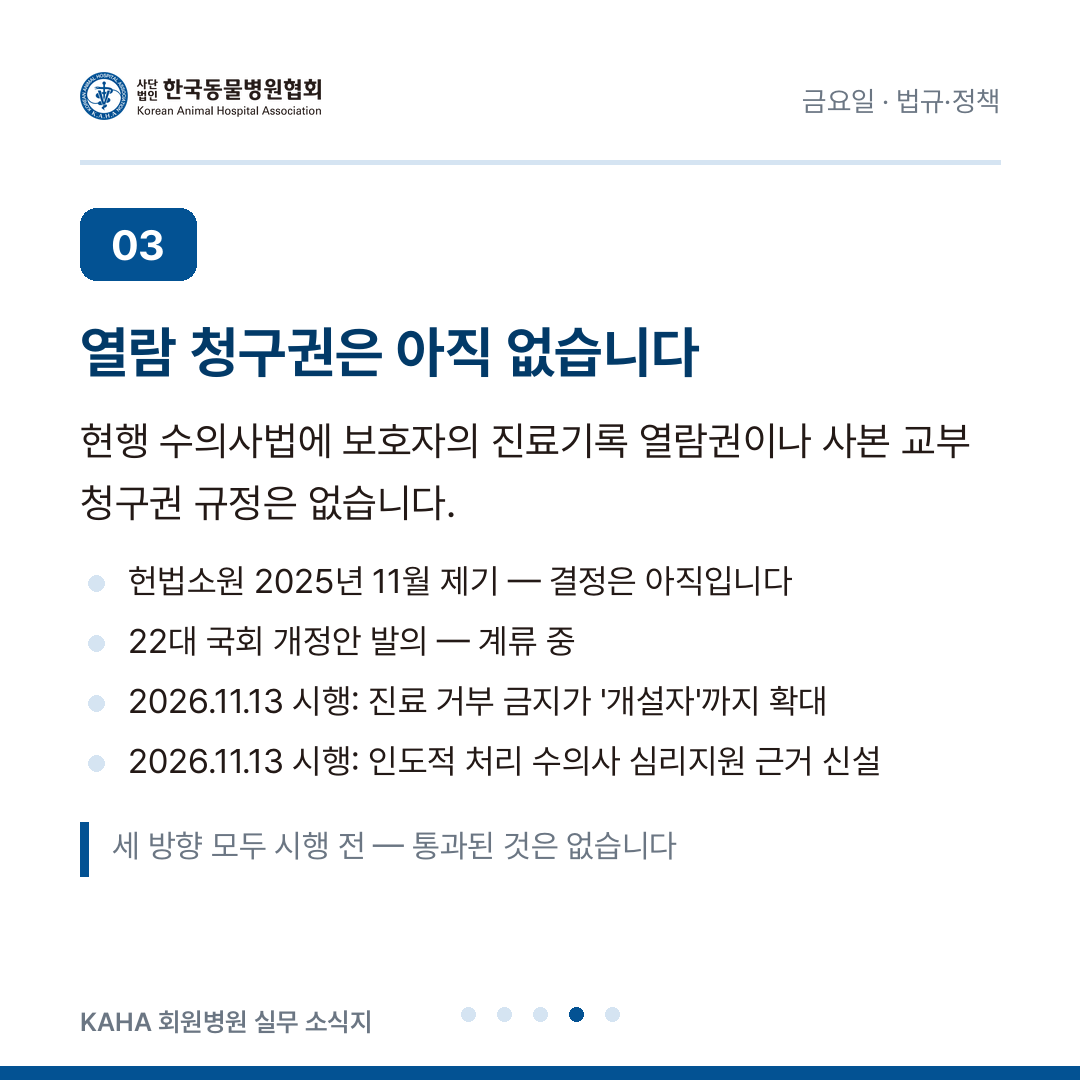
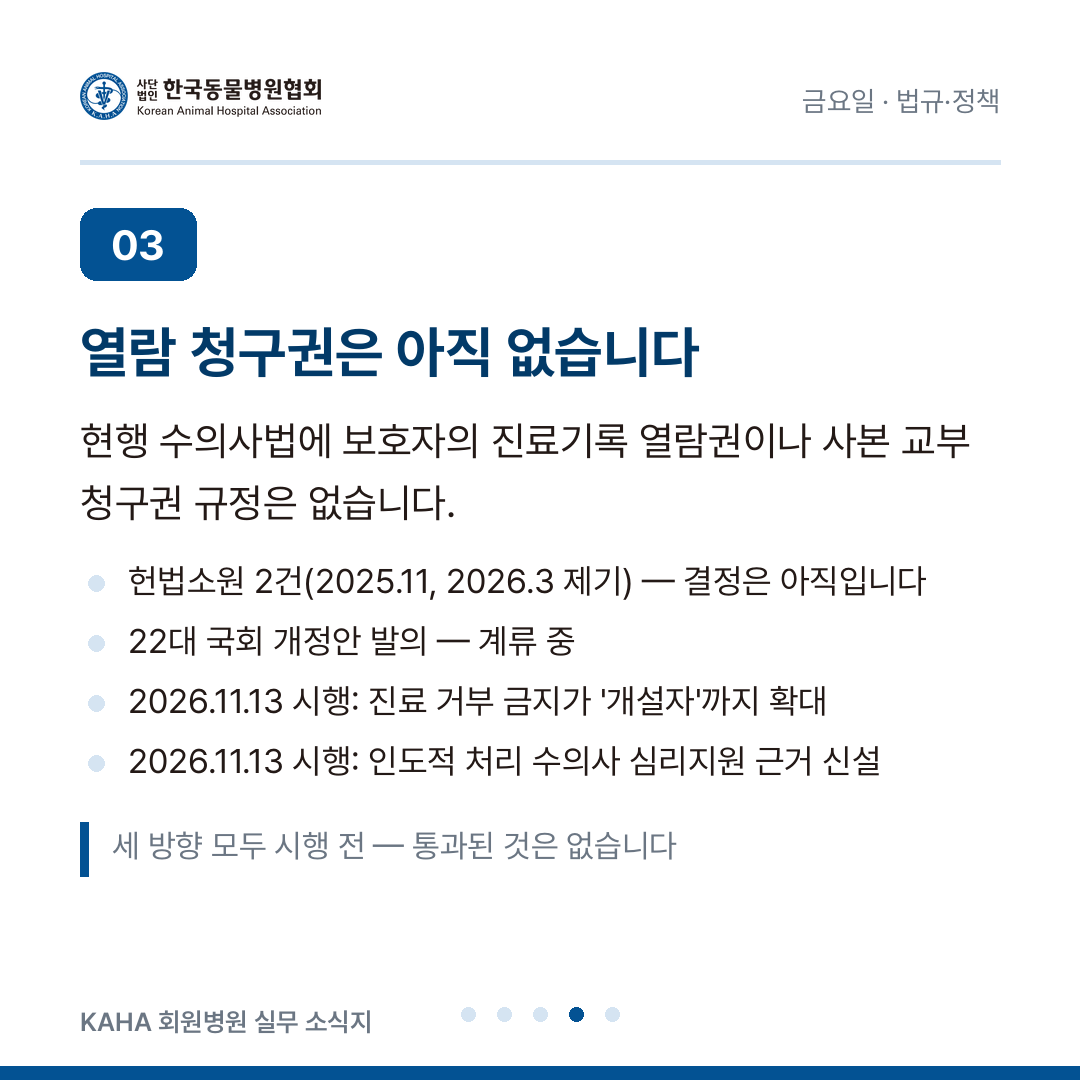
KAHA 소식지 2026-08-21 (금요일 법규·정책)
발행 전 재검증: 진료기록 열람 논의 관련 헌법소원이 실제로는
2025년 11월(개인, 전원재판부 심리 중)과 2026년 3월(변호사단체
'영원', 100명) 별개의 2건임을 확인해 본문·카드뉴스를 정정하고,
대한수의사회-법무법인 태평양 업무협약(8/3)을 반영했다.

Changed region(s): [[0.2444, 0.5194, 0.8556, 0.55]]

diff --git a/factcheck/2026-08-21.md b/factcheck/2026-08-21.md
@@ -48,3 +48,23 @@
 ## 발행 전 정정 사항 (3차)
 
 - **면허효력 정지 사유 추가**: 진료부 위반이 과태료에 그치지 않는다는 점을 시행령 원문으로 확인해 본문에 추가했습니다. 실무상 경각심이 크게 다른 정보입니다.
+
+## 발행일 재검증 (2026-08-21, 4차 — 실제 발행 전)
+
+검증일: 2026-08-21 · 검증 방법: 웹 검색 재검증 (WebFetch는 이 작업 환경에서 law.go.kr·mafra.go.kr뿐 아니라 dailyvet.co.kr·mt.co.kr·yahopet.co.kr 등도 차단되어 원문 열람 불가 — WebSearch 결과 요약에만 의존)
+
+이 호는 발행 전 검증일(2026-08-14)로부터 7일이 지나 실제 발행되므로, 빠르게 움직이는 입법·소송 동향 항목을 다시 확인했습니다. 법령 원문 대조가 끝난 항목(진료부 보존기간·과태료·기재사항 등)은 재검증하지 않았습니다.
+
+| # | 재검증 대상 | 판정 | 근거 |
+|---|---|---|---|
+| 17 | **헌법소원이 실제로는 2건**임을 확인 — ①개인 청구인(2025.11, 보도 2025.11.25)이 낸 권리구제형 헌법소원이 2025.12.17 지정재판부에서 전원재판부로 회부되어 정식 심리 중, ②동물권 변호사단체 '영원'(변호사 약 100명)이 2026.3.5 별도로 수의사법 제13조 제1항·제41조 제2항 제2호에 대해 헌법소원심판 청구. 본문의 "2025년 11월, 변호사단체와 보호자 개인이 함께 제기"는 시점을 하나로 합친 오류였음 → **본문 수정 (2건으로 분리, 각 날짜·진행 단계 명시)** | ⚠ 정정 | [머니투데이](https://www.mt.co.kr/society/2025/12/17/2025121709234370918), [한국경제](https://www.hankyung.com/article/202603050912i), [다음뉴스 2026.3.5](https://v.daum.net/v/20260305131653930), [법률신문](https://www.lawtimes.co.kr/news/articleView.html?idxno=217224), [다음뉴스 2025.11.25](https://v.daum.net/v/20251125172349870) |
+| 18 | 헌법재판소의 위헌 여부 **결정(선고) 미발표** — 두 사건 모두 아직 결정 없음 | ✅ 확인 (검색 결과에 선고 보도 없음) | 위 동일 |
+| 19 | **대한수의사회 - 법무법인(유한) 태평양 업무협약(2026.8.3, 경기 성남 수의과학회관)** — 진료부 공개 헌법소원 대응 포함 법률·정책 대응 체계 구축 → **본문에 신규 반영** | ✅ 확인 (2개 독립 매체 일치) | [야호펫](https://www.yahopet.co.kr/2026/08/kvma-bkl-legal-policy-mou.html), [라이브뉴스](https://www.livesnews.com/news/article.html?no=63209) |
+| 20 | 22대 국회 계류 개정안 — 정청래 의원 대표발의(원 발의일 2024.7.16, 22대 국회 재발의 확인) 등, 여전히 **계류 중** — 통과·시행 보도 없음 | ✅ 확인 (기존 판정 유지) | [데일리벳](https://www.dailyvet.co.kr/news/policy/218092) |
+| 21 | 정부 규제혁신 과제(2024.10.14) 이후 **법 개정 완료 보도 없음** — 여전히 "과제 확정" 단계 | ✅ 확인 (기존 판정 유지) | 검색 결과에 개정 완료 보도 없음 |
+
+### 발행 전 정정 사항 (4차)
+
+- **헌법소원 서술을 2건으로 분리**: 개인 청구(2025.11) → 전원재판부 회부(2025.12.17)와, 변호사단체 영원의 별도 청구(2026.3.5)를 하나의 사건처럼 서술했던 것을 정정했습니다. 두 사건의 날짜·주체·진행 단계를 각각 명시했습니다.
+- **KVMA-태평양 업무협약(2026.8.3) 신규 반영**: 발행 시점 기준 최근 동향이므로 "대한수의사회는 반대 입장을 유지" 문단 뒤에 추가했습니다.
+- 나머지 항목(법령 원문 대조 완료분)은 변동 사항 없어 본문을 유지했습니다.

diff --git a/issues/2026-08-21.md b/issues/2026-08-21.md
@@ -68,11 +68,11 @@
 
 | 경로 | 현재 상태 |
 |---|---|
-| **헌법소원** | 2025년 11월, 동물권 변호사단체와 보호자 개인이 수의사법 제13조 제1항의 입법부작위를 다투는 헌법소원을 제기했습니다. **아직 결정은 나오지 않았습니다.** |
+| **헌법소원 (2건)** | **2025년 11월**, 진료기록 교부를 거부당한 보호자 개인이 국회의 입법부작위를 다투는 헌법소원을 냈고, **2025년 12월** 헌법재판소 지정재판부가 이를 전원재판부로 회부해 정식 심리에 들어갔습니다. 이와 별개로 **2026년 3월**에는 동물권 변호사단체 '영원'(변호사 약 100명)이 같은 조항(제13조 제1항·제41조 제2항 제2호)에 대해 독자적으로 헌법소원심판을 청구했습니다. **두 건 모두 아직 결정은 나오지 않았습니다.** |
 | **국회 법률안** | 열람·사본 발급 요청을 정당한 사유 없이 거부하지 못하도록 하는 수의사법 개정안이 22대 국회에 발의되어 **계류 중**입니다. 유사 법안이 복수로 발의된 정황도 있습니다. 통과·시행된 바 없습니다. |
 | **정부 추진 과제** | 2024년 10월 제6차 농식품 규제혁신 전략회의에서 "양육자 요청 시 진료기록 열람 또는 사본 발급 의무 부여"가 과제로 확정되고 수의사법 개정을 추진하기로 했습니다. **과제 확정이지 법 개정이 아닙니다.** 비전문가의 약품 오남용 방지를 위해 제공 목적을 제한하는 방안이 함께 검토되고 있습니다. |
 
-대한수의사회는 반대 입장을 유지하고 있습니다. 처방내역 노출에 따른 항생제·마취제·호르몬제 오남용과 자가치료 우려, 그리고 "내용·주체·발급 대상이 불분명해 현장 혼란이 예상된다"는 것이 주된 논거입니다.
+대한수의사회는 반대 입장을 유지하고 있습니다. 처방내역 노출에 따른 항생제·마취제·호르몬제 오남용과 자가치료 우려, 그리고 "내용·주체·발급 대상이 불분명해 현장 혼란이 예상된다"는 것이 주된 논거입니다. **지난 8월 3일에는 법무법인(유한) 태평양과 업무협약을 맺어 진료부 공개 헌법소원 대응을 포함한 법률·정책 대응 체계를 갖췄습니다.** 협회 차원의 대응이 조직화되는 국면이므로, 회원병원도 이 사안의 진행 상황을 계속 지켜볼 필요가 있습니다.
 
 ### 병원이 지금 할 수 있는 것
 
